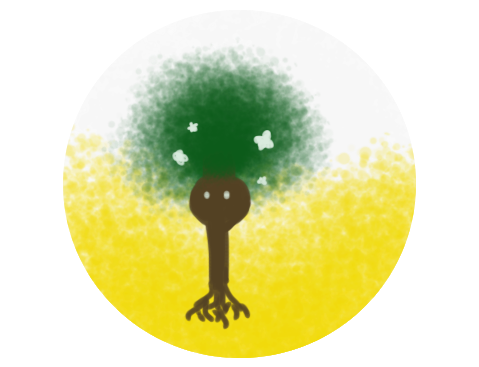
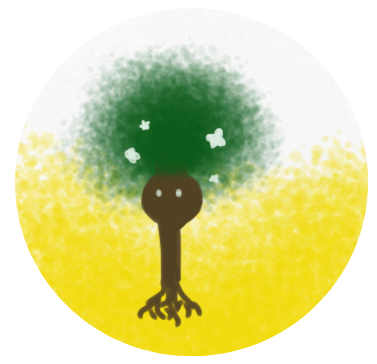
almost there

Changed region(s): [[0.0292, 0.1209, 0.992, 0.9973], [0.2626, 0.7253, 0.2918, 0.7857]]

diff --git a/src/pages/PopUp.js b/src/pages/PopUp.js
@@ -48,6 +48,65 @@ const PopUp = ({ idMessage }) => {
           </p>
         </div>
       )}
+
+      {open && idMessage == "The Origin of Shadblow" && (
+        <div
+          className="modal fade"
+          id={idMessage}
+          tabIndex="-1"
+          role="dialog"
+          aria-labelledby="exampleModalLabel"
+          aria-hidden="true"
+        >
+          <p>
+            The Shadblow is planted seasonally and harvested for food. The
+            thick, leaf-like structure around the root is kept on for
+            preservation purposes, and is peeled like a banana before it can be
+            prepared to be eaten. The Shadblow is a relatively hardy plant that
+            grows in moderate climates (the Americas).
+          </p>
+        </div>
+      )}
+
+      {open && idMessage == "The Origin of WaterBug" && (
+        <div
+          className="modal fade"
+          id={idMessage}
+          tabIndex="-1"
+          role="dialog"
+          aria-labelledby="exampleModalLabel"
+          aria-hidden="true"
+        >
+          <p>
+            The plant is typically foraged, and is praised for its beautiful
+            leaves. The leaves are plucked and used as cups for religious
+            purposes; it is rumored that the process purifies water and cleanses
+            the spirit.
+          </p>
+        </div>
+      )}
+
+      {open && idMessage == "The Origin of Stunt" && (
+        <div
+          className="modal fade"
+          id={idMessage}
+          tabIndex="-1"
+          role="dialog"
+          aria-labelledby="exampleModalLabel"
+          aria-hidden="true"
+        >
+          <p>
+            ...However, the Stunt was overtaken by a deadly kind of fungus that
+            attacks the root of the plant, blocking off a majorit of its
+            resources. The result is a short, woody and sparsley-flowered tree
+            that is unable to produce fruit. The suprising hardiness of the
+            surviving plants inspired clonal propogation of what remained. The
+            Stunt, while unable to produce viable seed, is currently being
+            studied for its abilities to survive such a harsh fungal infection
+            in hopes of revitalizing other dying plant populations.
+          </p>
+        </div>
+      )}
     </>
   );
 };

diff --git a/src/pages/plant4.js b/src/pages/plant4.js
@@ -2,6 +2,7 @@ import React, { Component } from "react";
 import { useNavigate } from "react-router-dom";
 import { render } from "@testing-library/react";
 import p4 from "./four.png";
+import PopUp from "./PopUp.js";
 const Plant4 = () => {
   // const navigate = useNavigate();
 
@@ -9,7 +10,50 @@ const Plant4 = () => {
     <>
       <div className="App">
         <img src={p4} width="600" height="400" alt="p4" />
-        <h3 style={{ fontSize: 50 }}>Look at this guy</h3>
+        <h3 style={{ fontSize: 50 }}>Stunt</h3>
+        <p>
+          Family:{" "}
+          <a
+            className="App-link"
+            href="https://en.wikipedia.org/wiki/Magnoliaceae"
+            target="_blank"
+            rel="noopener noreferrer"
+          >
+            Magnoliaceae
+          </a>
+        </p>
+        <p>
+          Reference:{" "}
+          <a
+            className="App-link"
+            href="https://en.wikipedia.org/wiki/Magnolia_stellata"
+            target="_blank"
+            rel="noopener noreferrer"
+          >
+            Star Magnolia
+          </a>
+        </p>
+        <p>
+          This flowering plant is native to the subtropical region and is
+          hermaphroditic. Typically, the flowers produces bountiful amounts of
+          flowers to produce fruit that serves as its main means of
+          reproduction, like the Star Magnolia of the past...
+        </p>
+      </div>
+      <div
+        style={{
+          position: "absolute",
+          left: "50%",
+          transform: "translateX(-50%)",
+          backgroundColor: "white",
+          fontSize: 25,
+        }}
+      >
+        <PopUp idMessage="The Origin of Stunt"></PopUp>
+        <ul style={{ listStyle: "none", color: "azure" }}>
+          <li> j</li>
+          <li>j</li>
+        </ul>
       </div>
     </>
   );

diff --git a/src/pages/plant2.js b/src/pages/plant2.js
@@ -2,6 +2,7 @@ import React, { Component } from "react";
 import { useNavigate } from "react-router-dom";
 import { render } from "@testing-library/react";
 import p2 from "./turn.png";
+import PopUp from "./PopUp.js";
 const Plant2 = () => {
   // const navigate = useNavigate();
 
@@ -9,7 +10,38 @@ const Plant2 = () => {
     <>
       <div className="App">
         <img src={p2} width="600" height="400" alt="p2" />
-        <h3 style={{ fontSize: 50 }}>Look at this guy</h3>
+        <h3 style={{ fontSize: 50 }}>Shadblow</h3>
+        <p>
+          Family:{" "}
+          <a
+            className="App-link"
+            href="https://en.wikipedia.org/wiki/Solanaceae"
+            target="_blank"
+            rel="noopener noreferrer"
+          >
+            Solanaceae
+          </a>
+        </p>
+        <p>
+          The plant is hermaphroditic and strongly resembles an old-timey
+          potato. Due to the large number of ladybugs, the root grows a tough,
+          green outer skin to protect itself.
+        </p>
+      </div>
+      <div
+        style={{
+          position: "absolute",
+          left: "50%",
+          transform: "translateX(-50%)",
+          backgroundColor: "white",
+          fontSize: 25,
+        }}
+      >
+        <PopUp idMessage="The Origin of Shadblow"></PopUp>
+        <ul style={{ listStyle: "none", color: "azure" }}>
+          <li> j</li>
+          <li>j</li>
+        </ul>
       </div>
     </>
   );

diff --git a/src/pages/plant3.js b/src/pages/plant3.js
@@ -2,6 +2,7 @@ import React, { Component } from "react";
 import { useNavigate } from "react-router-dom";
 import { render } from "@testing-library/react";
 import p3 from "./third.png";
+import PopUp from "./PopUp.js";
 const Plant3 = () => {
   // const navigate = useNavigate();
 
@@ -9,7 +10,37 @@ const Plant3 = () => {
     <>
       <div className="App">
         <img src={p3} width="600" height="400" alt="p3" />
-        <h3 style={{ fontSize: 50 }}>Look at this guy</h3>
+        <h3 style={{ fontSize: 50 }}>WaterBug</h3>
+        <p>
+          Family:{" "}
+          <a
+            className="App-link"
+            href="https://en.wikipedia.org/wiki/Nelumbonaceae"
+            target="_blank"
+            rel="noopener noreferrer"
+          >
+            Nelumbonaceae
+          </a>
+        </p>
+        <p>
+          The WaterBug is an aquatic flowering plant that grows in mid-latitude
+          climates.
+        </p>
+      </div>
+      <div
+        style={{
+          position: "absolute",
+          left: "50%",
+          transform: "translateX(-50%)",
+          backgroundColor: "white",
+          fontSize: 25,
+        }}
+      >
+        <PopUp idMessage="The Origin of WaterBug"></PopUp>
+        <ul style={{ listStyle: "none", color: "azure" }}>
+          <li> j</li>
+          <li>j</li>
+        </ul>
       </div>
     </>
   );

diff --git a/src/pages/plant5.js b/src/pages/plant5.js
@@ -3,12 +3,10 @@ import { useNavigate } from "react-router-dom";
 import { render } from "@testing-library/react";
 import p5 from "./five.png";
 const Plant5 = () => {
-  // const navigate = useNavigate();
-
   return (
     <>
       <div className="App">
-        <img src={p5} width="600" height="400" alt="p5" />
+        <img src={p5} width="400" height="300" alt="p5" />
         <h3 style={{ fontSize: 50 }}>Look at this guy</h3>
       </div>
     </>

diff --git a/src/pages/Home.js b/src/pages/Home.js
@@ -77,7 +77,7 @@ const Home = () => {
           backgroundColor: "white",
           fontSize: 25,
         }}
-        onClick={() => navigate("/pages/plant4")}
+        onClick={() => navigate("/pages/plant5")}
       >
         Fake Plant #5
       </button>
